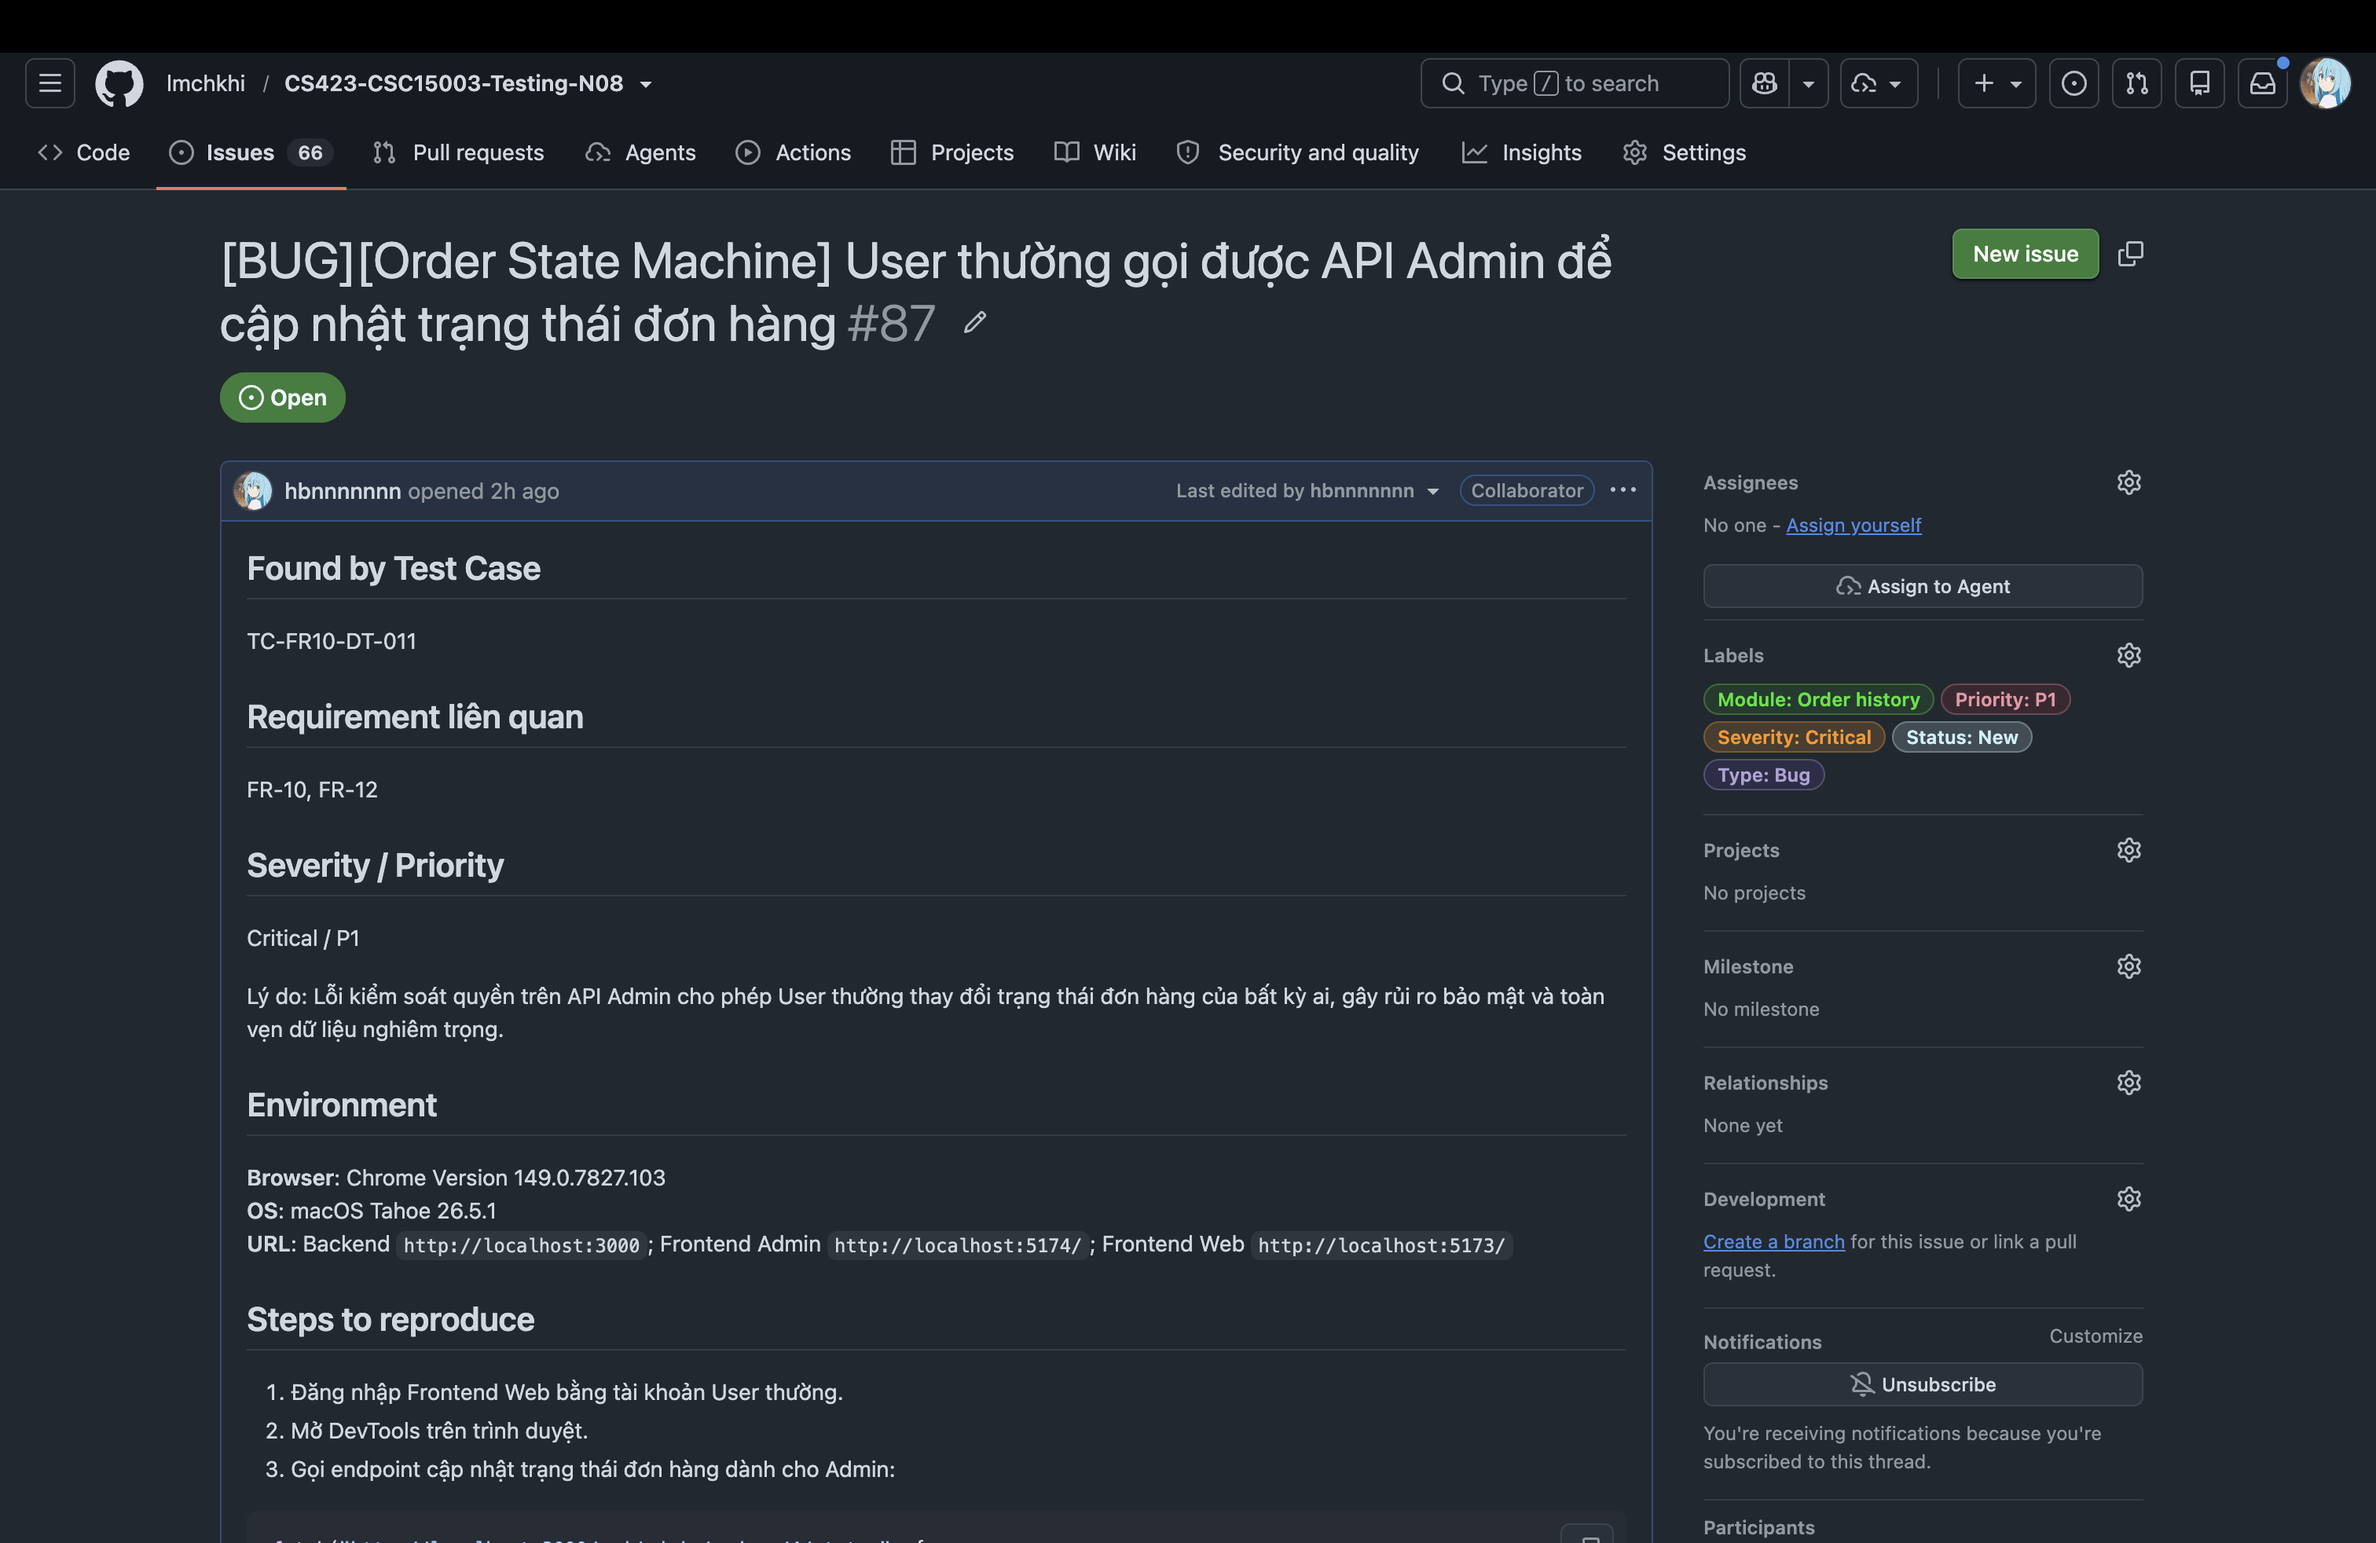
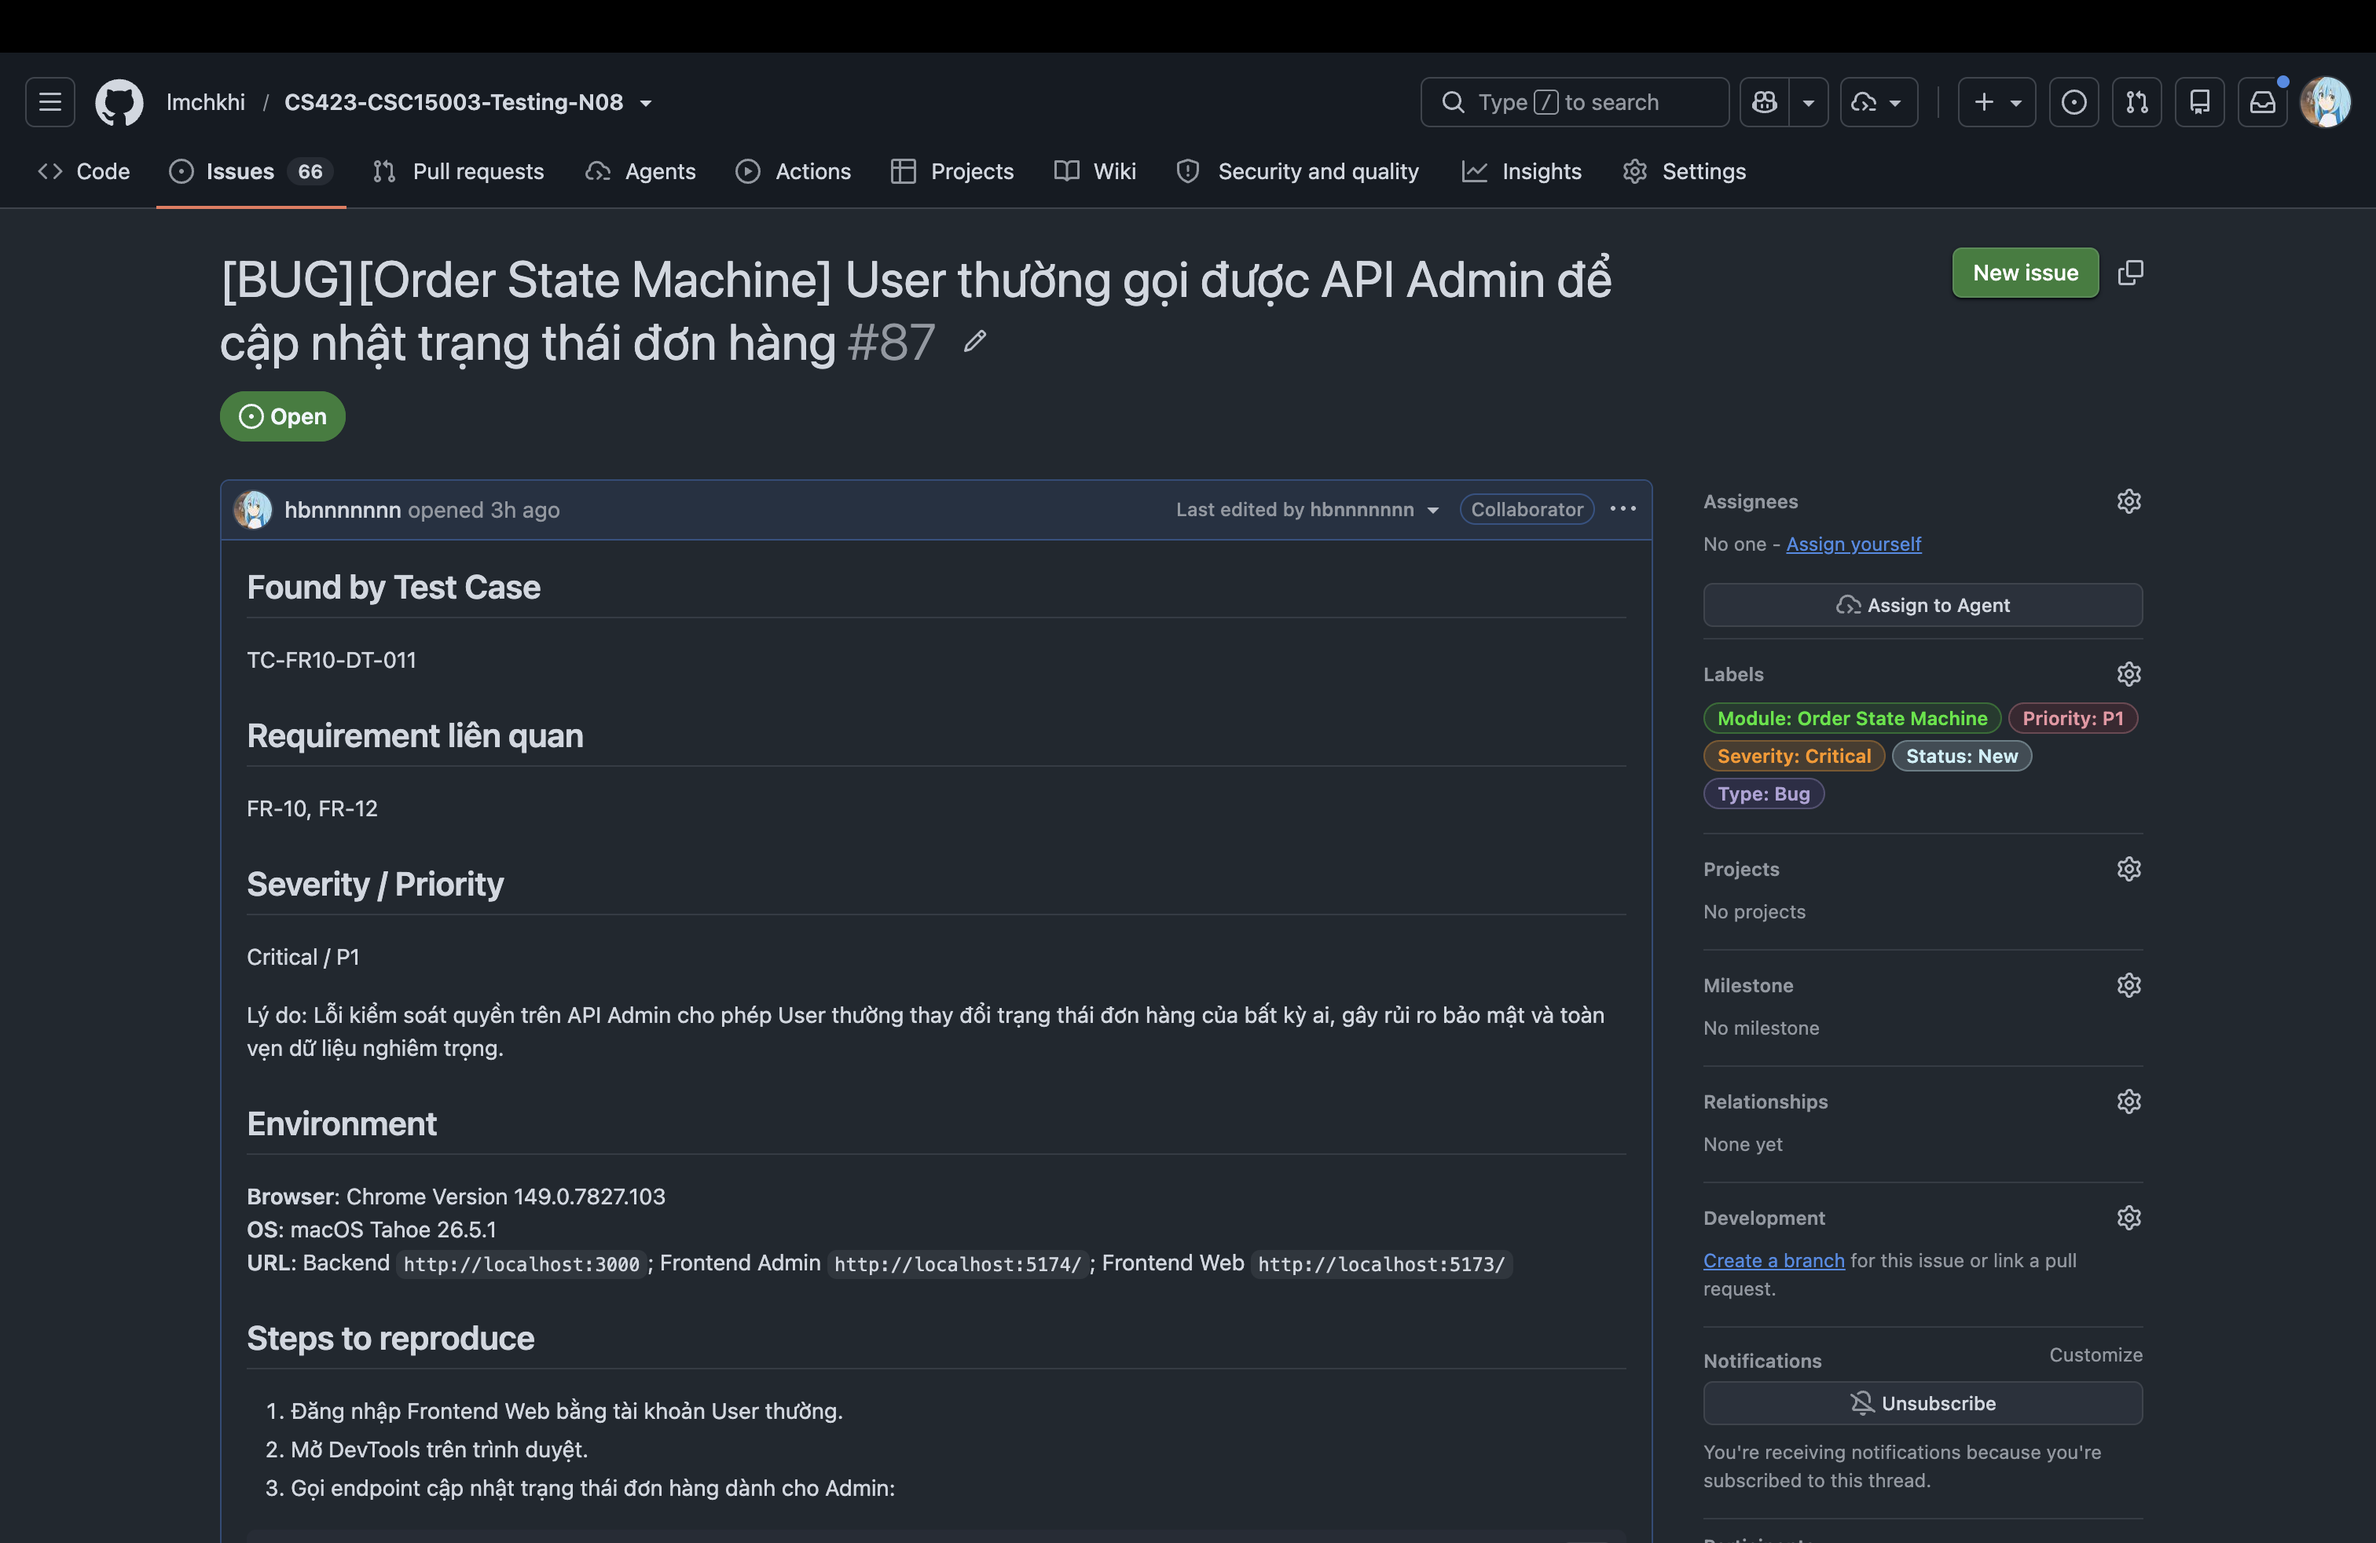
fix: update docs

diff --git a/ai-gap-analysis/HW02-ai-gap-analysis.md b/ai-gap-analysis/HW02-ai-gap-analysis.md
@@ -10,16 +10,16 @@ Tài liệu này ghi lại các gap, giả định quá mức và điểm cần 
 
 | Feature | Gap / rủi ro từ AI | Vì sao AI bỏ sót hoặc dễ sai | Cách sinh viên đã sửa |
 |---|---|---|---|
-| FR-02 | AI ban đầu dễ xem login chỉ là Email + Password và đánh giá nhẹ trạng thái lockout. | Form login thường được model hóa như credential validation đơn giản, trong khi FR-02 có system state: failed counter và lock duration. | Bổ sung `failed_login_attempt_count`, `account lock state`, `elapsed_lock_time`; tạo cả Domain Testing và BVA cho lockout. |
-| FR-02 | AI tham chiếu requirement không tồn tại `FR-22` cho hành vi form input. | Model suy diễn ID dạng feature cho requirement GUI thay vì kiểm tra numbering thật. | Thay `FR-22` bằng `GUI-02` và kiểm lại traceability. |
-| FR-02 | AI có thể kết luận quá chắc về hành vi tại đúng mốc 30 giây. | Requirement nêu thời lượng khóa nhưng không nêu dung sai đo thời gian hoặc hành vi chính xác tại 30.000 giây. | Giữ ON boundary nhưng ghi là giả định cần xác nhận khi execution. |
-| FR-10 | AI có thể ép BVA lên state machine dạng categorical. | Feature có 5 trạng thái nên dễ bị hiểu nhầm thành miền số thứ tự. | Tạo BVA analysis kết luận không áp dụng và không sinh test case BVA. |
-| FR-10 | AI có thể bịa quyền Admin chưa được FR-10 nêu rõ, nhất là quanh `shipping -> canceled`. | Requirement chỉ nói User không được tự hủy khi `shipping`; không nói rõ Admin có được hủy ở trạng thái đó không. | Không tạo valid case Admin hủy `shipping` như một rule chắc chắn. |
+| FR-02 | AI ban đầu dễ xem login chỉ là Email + Password và coi nhẹ trạng thái lockout. | Form login thường được mô hình hóa như quá trình kiểm tra thông tin đăng nhập đơn giản, trong khi FR-02 có system state: failed counter và lock duration. | Bổ sung `failed_login_attempt_count`, `account lock state`, `elapsed_lock_time`; tạo cả Domain Testing và BVA cho lockout. |
+| FR-02 | AI tham chiếu requirement không tồn tại `FR-22` cho hành vi form input. | Model suy diễn ID dạng feature cho requirement GUI thay vì kiểm tra mã định danh thực tế. | Thay `FR-22` bằng `GUI-02` và kiểm lại traceability. |
+| FR-02 | AI có thể khẳng định quá chắc chắn về hành vi tại đúng mốc 30 giây. | Requirement nêu thời lượng khóa nhưng không nêu dung sai đo thời gian hoặc hành vi chính xác tại mốc 30 giây. | Giữ ON boundary nhưng ghi là giả định cần xác nhận khi execution. |
+| FR-10 | AI có thể áp dụng gượng ép BVA cho state machine có các trạng thái rời rạc. | Feature có 5 trạng thái nên dễ bị hiểu nhầm thành miền giá trị có thứ tự. | Tạo BVA analysis kết luận không áp dụng và không sinh test case BVA. |
+| FR-10 | AI có thể tự suy diễn quyền Admin chưa được FR-10 nêu rõ, nhất là ở luồng chuyển trạng thái từ `shipping -> canceled`. | Requirement chỉ nói User không được tự hủy khi `shipping`; không nói rõ Admin có được hủy ở trạng thái đó không. | Không tạo valid case Admin hủy `shipping` như một quy tắc mặc định. |
 | FR-13 | AI có thể tạo boundary giả cho doanh thu hoặc số lượng đơn hàng. | Output là số nên dễ bị lẫn với BVA, dù requirement không có min/max/range/threshold. | Ghi BVA không áp dụng và dùng Domain Testing theo dataset/status. |
-| FR-26 | AI có thể gộp nhiều yêu cầu UI vào một test case lớn. | Các yêu cầu UI nhỏ nhìn có vẻ phụ, nhưng mỗi yêu cầu cần traceability và bug report riêng. | Tách test case theo nhãn, control số lượng, dialog xóa, nhãn tổng tiền, empty state và thêm trùng sản phẩm. |
-| FR-26 | AI ban đầu xem việc thiếu screenshot dialog xóa là điểm yếu evidence. | AI kỳ vọng có ảnh chụp trực tiếp, trong khi defect là dialog không xuất hiện và item bị xóa ngay. | Giữ screenshot mobile cart dùng chung và ghi rõ Actual Result trong test run/bug report. |
+| FR-26 | AI có thể gộp nhiều yêu cầu UI vào một test case lớn. | Các yêu cầu UI nhỏ nhìn có vẻ phụ, nhưng mỗi yêu cầu cần traceability và bug report riêng. | Tách test case theo nhãn, nút điều chỉnh số lượng, dialog xóa, nhãn tổng tiền, empty state và thêm trùng sản phẩm. |
+| FR-26 | AI ban đầu xem việc thiếu screenshot dialog xóa là bằng chứng (evidence) chưa thuyết phục. | AI kỳ vọng có ảnh chụp trực tiếp, trong khi defect là dialog không xuất hiện và item bị xóa ngay. | Giữ screenshot mobile cart dùng chung và ghi rõ Actual Result trong test run/bug report. |
 
 ## 3. Nguyên tắc rút ra
 
-AI mạnh ở việc tạo cấu trúc và gợi ý coverage, nhưng yếu ở việc nhận biết khi requirement im lặng. Trong HW02, mọi output AI đều phải được đối chiếu lại với SRS. Nếu constraint không có trong requirement, constraint đó phải bị loại bỏ hoặc được ghi là `Chưa được đặc tả` / `Giả định cần xác nhận`.
+AI mạnh ở việc tạo cấu trúc và gợi ý coverage, nhưng yếu ở việc xử lý những trường hợp tài liệu yêu cầu không đề cập đến (silent requirements). Trong HW02, mọi output AI đều phải được đối chiếu lại với SRS. Nếu constraint không có trong requirement, constraint đó phải bị loại bỏ hoặc được ghi là `Chưa được đặc tả` / `Giả định cần xác nhận`.
 

diff --git a/README.md b/README.md
@@ -98,7 +98,8 @@
 | AI Audit Report PDF | [reports/ai-audit-report.pdf](reports/ai-audit-report.pdf) |
 | AI Gap Analysis | [ai-gap-analysis/HW02-ai-gap-analysis.md](ai-gap-analysis/HW02-ai-gap-analysis.md) |
 | Prompt log | [prompt_log.md](prompt_log.md) |
-| Git commit log | [git-log.txt](git-log.txt) |
+| Git commit log | [git_log.md](git_log.md) |
+| Git commit log PDF | [git_log.pdf](git_log.pdf) |
 | Requirements | [requirements/](requirements/) |
 | Analysis artifacts | [analysis/](analysis/) |
 | Test cases | [tests/test-cases/](tests/test-cases/) |

diff --git a/bug-reports/BUG-FR26-002.md b/bug-reports/BUG-FR26-002.md
@@ -6,6 +6,9 @@ TC-FR26-DT-003, TC-FR26-DT-004, TC-FR26-DT-005, TC-FR26-BVA-003
 ## Requirement liên quan
 FR-26
 
+## GitHub Issue
+https://github.com/lmchkhi/CS423-CSC15003-Testing-N08/issues/76
+
 ## Severity / Priority
 Medium / P2
 

diff --git a/bug-reports/BUG-FR26-003.md b/bug-reports/BUG-FR26-003.md
@@ -6,6 +6,9 @@ TC-FR26-DT-007, TC-FR26-DT-008, TC-FR26-DT-009, TC-FR26-BVA-002
 ## Requirement liên quan
 FR-26
 
+## GitHub Issue
+https://github.com/lmchkhi/CS423-CSC15003-Testing-N08/issues/77
+
 ## Severity / Priority
 High / P2
 

diff --git a/bug-reports/BUG-FR13-001.md b/bug-reports/BUG-FR13-001.md
@@ -6,6 +6,9 @@ TC-FR13-DT-002, TC-FR13-DT-003, TC-FR13-DT-004
 ## Requirement liên quan
 FR-13
 
+## GitHub Issue
+https://github.com/lmchkhi/CS423-CSC15003-Testing-N08/issues/58
+
 ## Severity / Priority
 High / P2
 

diff --git a/bug-reports/BUG-FR26-005.md b/bug-reports/BUG-FR26-005.md
@@ -6,6 +6,9 @@ TC-FR26-DT-004, TC-FR26-DT-005, TC-FR26-DT-011
 ## Requirement liên quan
 FR-26
 
+## GitHub Issue
+https://github.com/lmchkhi/CS423-CSC15003-Testing-N08/issues/79
+
 ## Severity / Priority
 Low / P2
 

diff --git a/bug-reports/BUG-FR10-003.md b/bug-reports/BUG-FR10-003.md
@@ -6,6 +6,9 @@ TC-FR10-DT-011
 ## Requirement liên quan
 FR-10, FR-12
 
+## GitHub Issue
+https://github.com/lmchkhi/CS423-CSC15003-Testing-N08/issues/87
+
 ## Severity / Priority
 Critical / P1
 

diff --git a/bug-reports/BUG-FR10-001.md b/bug-reports/BUG-FR10-001.md
@@ -6,6 +6,9 @@ TC-FR10-DT-009
 ## Requirement liên quan
 FR-10
 
+## GitHub Issue
+https://github.com/lmchkhi/CS423-CSC15003-Testing-N08/issues/85
+
 ## Severity / Priority
 High / P2
 

diff --git a/bug-reports/BUG-FR10-002.md b/bug-reports/BUG-FR10-002.md
@@ -6,6 +6,9 @@ TC-FR10-DT-010
 ## Requirement liên quan
 FR-10
 
+## GitHub Issue
+https://github.com/lmchkhi/CS423-CSC15003-Testing-N08/issues/86
+
 ## Severity / Priority
 High / P2
 

diff --git a/bug-reports/BUG-FR26-001.md b/bug-reports/BUG-FR26-001.md
@@ -6,6 +6,9 @@ TC-FR26-DT-002
 ## Requirement liên quan
 FR-26
 
+## GitHub Issue
+https://github.com/lmchkhi/CS423-CSC15003-Testing-N08/issues/75
+
 ## Severity / Priority
 Low / P2
 

diff --git a/bug-reports/BUG-FR26-004.md b/bug-reports/BUG-FR26-004.md
@@ -6,6 +6,9 @@ TC-FR26-DT-010
 ## Requirement liên quan
 FR-26
 
+## GitHub Issue
+https://github.com/lmchkhi/CS423-CSC15003-Testing-N08/issues/78
+
 ## Severity / Priority
 Low / P3
 

diff --git a/bug-reports/BUG-FR02-001.md b/bug-reports/BUG-FR02-001.md
@@ -6,6 +6,9 @@
 ## Requirement liên quan
 FR-02
 
+## GitHub Issue
+https://github.com/lmchkhi/CS423-CSC15003-Testing-N08/issues/69
+
 ## Severity / Priority
 Critical / P1
 
